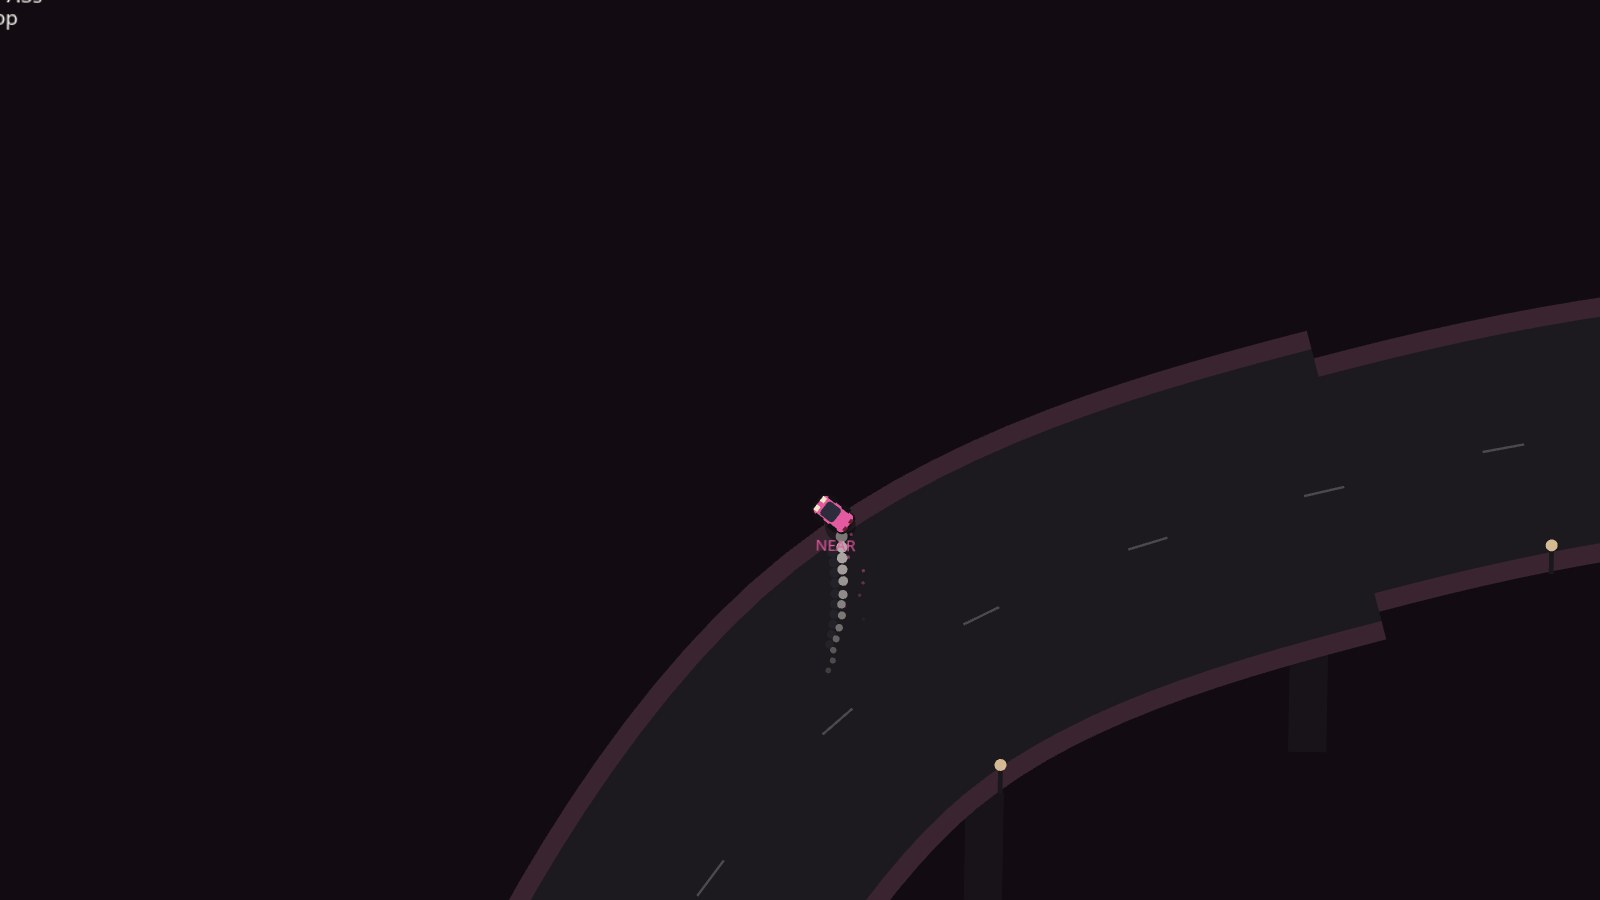
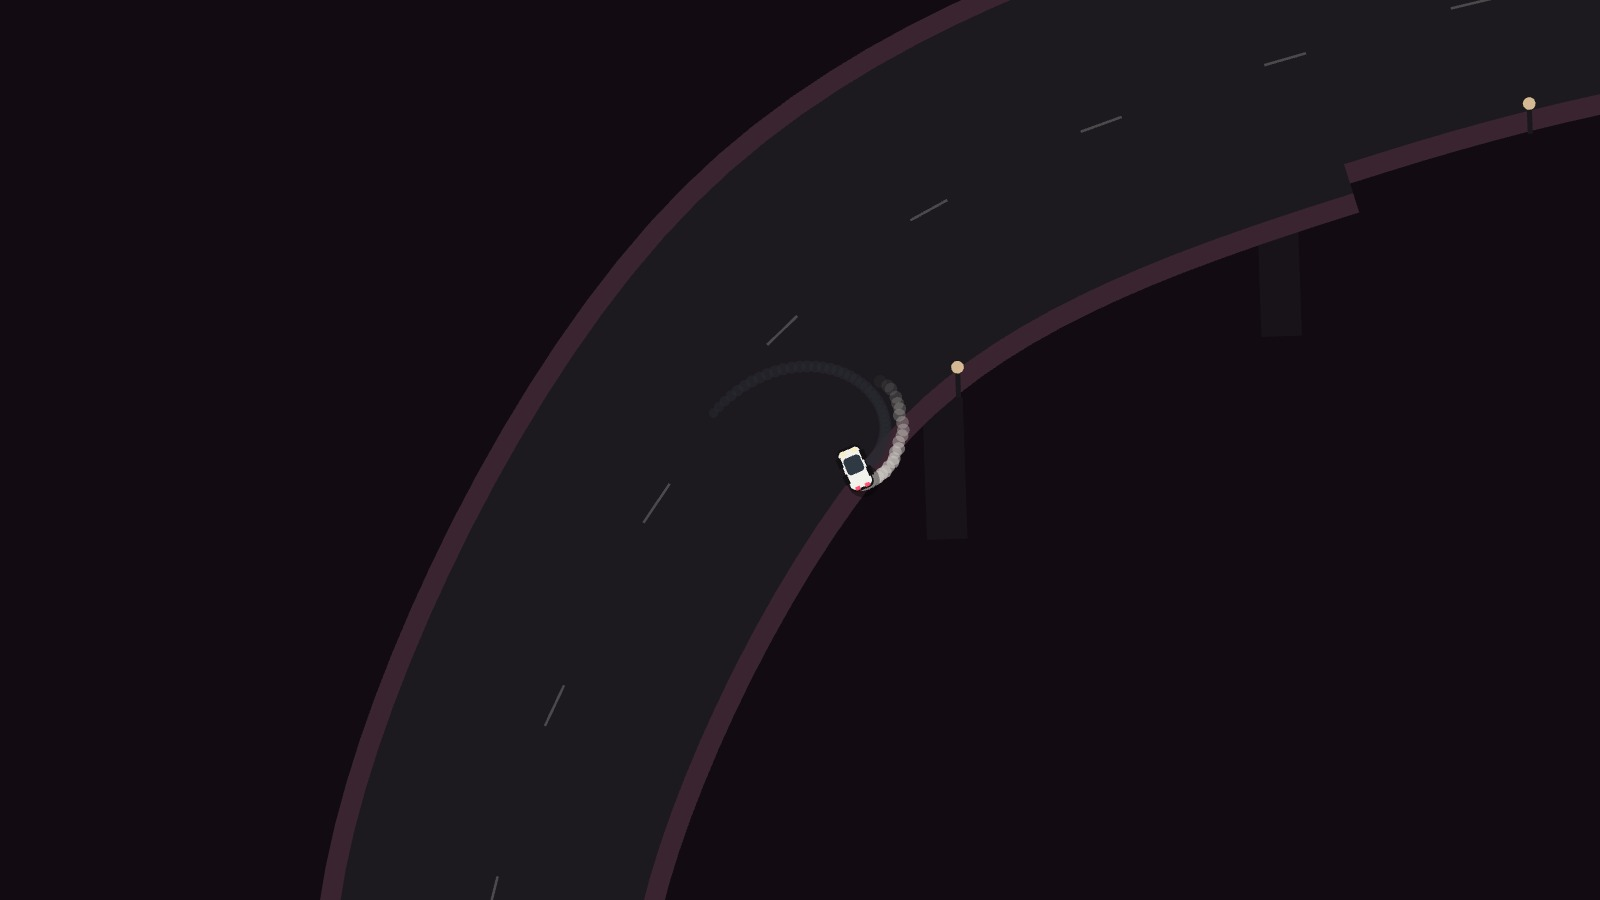
Recapture HUD-free gameplay art and keep Neon on track for 30s.
Phaser HUD text was baked into Home stills, which doubled Harbour Loop / Gate A over the React mode line. Captures now hide in-game chrome. Remote keyboard QA follows look-ahead heading and must survive a 30s session.

diff --git a/games/neon-drift/src/scenes/PlayScene.ts b/games/neon-drift/src/scenes/PlayScene.ts
@@ -542,6 +542,11 @@ export class DriftPlayScene extends Phaser.Scene {
 
   private publishDebug(delta: number) {
     this.longFrames = countLongFrame(delta, this.longFrames);
+    const q = this.samples?.length ? queryTrack(this.samples, this.car.x, this.car.y) : null;
+    const trackHeading = q ? Math.atan2(q.nearest.ty, q.nearest.tx) : this.car.angle;
+    let headingError = this.car.angle - trackHeading;
+    while (headingError > Math.PI) headingError -= Math.PI * 2;
+    while (headingError < -Math.PI) headingError += Math.PI * 2;
     publishGwDebug(
       {
         gameId: "neon-drift",
@@ -565,12 +570,32 @@ export class DriftPlayScene extends Phaser.Scene {
         canvasW: this.scale.width,
         canvasH: this.scale.height,
         inputSource: this.testDrive ? "debug" : this.nativeKeys?.driving() ? "native" : "phaser",
+        lateral: q?.lateral,
+        headingError,
+        surface: q?.surface,
+        drifting: this.car.drifting,
+        lookError: (() => {
+          if (!q || !this.samples.length) return headingError;
+          const look = this.samples[(q.index + 18) % this.samples.length];
+          const lookHeading = Math.atan2(look.ty, look.tx);
+          let err = this.car.angle - lookHeading;
+          while (err > Math.PI) err -= Math.PI * 2;
+          while (err < -Math.PI) err += Math.PI * 2;
+          return err;
+        })(),
       },
       {
         finishRun: () => this.finish("finish"),
         setDrive: (throttle: number, steer: number) => {
           this.paused = false;
           this.testDrive = { throttle, steer };
+        },
+        hideHud: () => {
+          this.hud.setVisible(false);
+          this.overlay.setVisible(false);
+          this.hint.setVisible(false);
+          this.deltaTxt.setVisible(false);
+          this.floaterGfx.forEach((t) => t.setVisible(false));
         },
       },
     );

diff --git a/e2e/remote-keyboard.spec.ts b/e2e/remote-keyboard.spec.ts
@@ -11,6 +11,10 @@ type GwDebug = {
   speed?: number;
   throttle?: number;
   tick?: number;
+  ended?: boolean;
+  headingError?: number;
+  lateral?: number;
+  lookError?: number;
 };
 
 async function debugOf(page: Page): Promise<GwDebug | null> {
@@ -63,6 +67,44 @@ test("remote neon keyboard drive", async ({ page }) => {
   await page.keyboard.press("r");
   await expect.poll(async () => (await debugOf(page))?.paused).toBe(false);
   expect(errors, errors.join("\n")).toEqual([]);
+});
+
+test("remote neon 30s keyboard session", async ({ page }) => {
+  test.setTimeout(90_000);
+  await waitReady(page, "neon-drift");
+  await page.keyboard.down("KeyW");
+  const startScore = (await debugOf(page))?.score ?? 0;
+  const start = Date.now();
+  while (Date.now() - start < 30_000) {
+    const d = await debugOf(page);
+    expect(d?.ended, "crashed during 30s session").toBeFalsy();
+    const cmd = d?.lookError ?? d?.headingError ?? 0;
+    if (cmd > 0.06) {
+      await page.keyboard.up("KeyD");
+      await page.keyboard.down("KeyA");
+    } else if (cmd < -0.06) {
+      await page.keyboard.up("KeyA");
+      await page.keyboard.down("KeyD");
+    } else {
+      await page.keyboard.up("KeyA");
+      await page.keyboard.up("KeyD");
+    }
+    if (Math.abs(cmd) > 0.5) await page.keyboard.up("KeyW");
+    else await page.keyboard.down("KeyW");
+    if (Math.abs(cmd) > 0.28 && (d?.speed ?? 0) > 120) {
+      await page.keyboard.down("Space");
+    } else {
+      await page.keyboard.up("Space");
+    }
+    await page.waitForTimeout(16);
+  }
+  await page.keyboard.up("Space");
+  await page.keyboard.up("KeyA");
+  await page.keyboard.up("KeyD");
+  await page.keyboard.up("KeyW");
+  const end = await debugOf(page);
+  expect(end?.ended).toBeFalsy();
+  expect(end?.score ?? 0).toBeGreaterThan(startScore);
 });
 
 test("remote velocity keyboard", async ({ page }) => {

diff --git a/apps/web/components/meta/ProfileBody.tsx b/apps/web/components/meta/ProfileBody.tsx
@@ -41,7 +41,7 @@ function SelfProfile() {
   const lv = levelFromXp(player.xp);
   const stats = playerStatsFromSnapshot(player);
   const favorite = favoriteGameId(player);
-  const favoriteGame = favorite ? getManifest(favorite) : null;
+  const favoriteGame = (favorite ? getManifest(favorite) : null) ?? GAME_MANIFESTS[0];
   const showcase = latestUnlocks(player, 3);
   const activity = activityFromHistory(player.history, 10);
   const friends = player.friends.filter((f) => f.status === "accepted").length;
@@ -64,7 +64,9 @@ function SelfProfile() {
               @{player.username} · {formatLevel(lv.level)}
               {player.streak > 0 ? ` · ${player.streak} day streak` : ""}
             </p>
-            {favoriteGame ? <p className="mt-2 text-[13px] text-[var(--text-dim)]">Main game · {favoriteGame.title}</p> : null}
+            {favorite && favoriteGame ? (
+              <p className="mt-2 text-[13px] text-[var(--text-dim)]">Main game · {favoriteGame.title}</p>
+            ) : null}
           </div>
         </div>
         <div className="mt-4">

diff --git a/apps/web/components/arcade/ArcadeHub.tsx b/apps/web/components/arcade/ArcadeHub.tsx
@@ -99,15 +99,14 @@ export function ArcadeHub() {
         <section className="lg:col-span-12">
           <SectionHeader title="Recent records" />
           <div className="mt-4 flex gap-4 overflow-x-auto scrollbar-none md:grid md:grid-cols-3 md:overflow-visible">
-            {records.length ? (
-              records.map((r) => (
-                <div key={r.game.id} className="min-w-[260px]">
-                  <RecordWidget game={r.game} score={r.rec.score} modeLabel={r.rec.mode} />
+            {GAME_MANIFESTS.map((g) => {
+              const rec = records.find((r) => r.game.id === g.id)?.rec;
+              return (
+                <div key={g.id} className="min-w-[260px]">
+                  <RecordWidget game={g} score={rec?.score ?? 0} modeLabel={rec?.mode} />
                 </div>
-              ))
-            ) : (
-              <EmptyState title="No records yet" body="Finish a run to pin a personal best." action={<QuickAction href="/">Play</QuickAction>} />
-            )}
+              );
+            })}
           </div>
         </section>
 

diff --git a/packages/game-core/src/runtime.ts b/packages/game-core/src/runtime.ts
@@ -26,6 +26,11 @@ export type GwDebugState = {
   canvasW?: number;
   canvasH?: number;
   inputSource?: string;
+  lateral?: number;
+  headingError?: number;
+  surface?: string;
+  drifting?: boolean;
+  lookError?: number;
 };
 
 export type GwDebugCommands = {
@@ -35,6 +40,7 @@ export type GwDebugCommands = {
   finishRun?: () => void;
   setDrive?: (throttle: number, steer: number) => void;
   jump?: () => void;
+  hideHud?: () => void;
 };
 
 type GwDebugWindow = Window & {

diff --git a/apps/web/components/home/HomePage.tsx b/apps/web/components/home/HomePage.tsx
@@ -69,7 +69,7 @@ export default function HomePage() {
 
   const modes = playModeOptions(game.id);
   const fade = reduced ? "" : "duration-[320ms] ease-[var(--ease-out)]";
-  const line = [ctx.modeLabel, ctx.pbLabel ? `Personal best ${ctx.pbLabel}` : null].filter(Boolean).join(" · ");
+  const line = ctx.pbLabel ? `${ctx.modeLabel} · Personal best ${ctx.pbLabel}` : ctx.modeLabel;
 
   return (
     <div className="relative min-h-dvh" data-testid="games-home">

diff --git a/apps/web/components/game/GameArt.tsx b/apps/web/components/game/GameArt.tsx
@@ -1,7 +1,7 @@
 const POSITION: Record<string, Record<string, string>> = {
   "neon-drift": { backdrop: "48% 52%", hero: "46% 58%", tile: "46% 58%" },
   "velocity-run": { backdrop: "22% 68%", hero: "18% 70%", tile: "20% 68%" },
-  "swarm-protocol": { backdrop: "82% 58%", hero: "88% 62%", tile: "84% 58%" },
+  "swarm-protocol": { backdrop: "92% 42%", hero: "70% 50%", tile: "60% 48%" },
 };
 
 export function GameArt({

diff --git a/games/velocity-run/src/scenes/PlayScene.ts b/games/velocity-run/src/scenes/PlayScene.ts
@@ -601,6 +601,10 @@ export class VelocityPlayScene extends Phaser.Scene {
         jump: () => {
           this.touchJump = true;
         },
+        hideHud: () => {
+          this.hud.setVisible(false);
+          this.overlay.setVisible(false);
+        },
       },
     );
   }

diff --git a/games/swarm-protocol/src/scenes/PlayScene.ts b/games/swarm-protocol/src/scenes/PlayScene.ts
@@ -968,6 +968,10 @@ export class SwarmPlayScene extends Phaser.Scene {
           this.bossDown = true;
           this.die();
         },
+        hideHud: () => {
+          this.hud.setVisible(false);
+          this.overlay.setVisible(false);
+        },
       },
     );
   }

diff --git a/playwright.remote.config.ts b/playwright.remote.config.ts
@@ -8,7 +8,7 @@ if (!baseURL) {
 export default defineConfig({
   testDir: "./e2e",
   testMatch: /remote-keyboard\.spec\.ts/,
-  timeout: 60_000,
+  timeout: 90_000,
   retries: 1,
   use: {
     baseURL,
